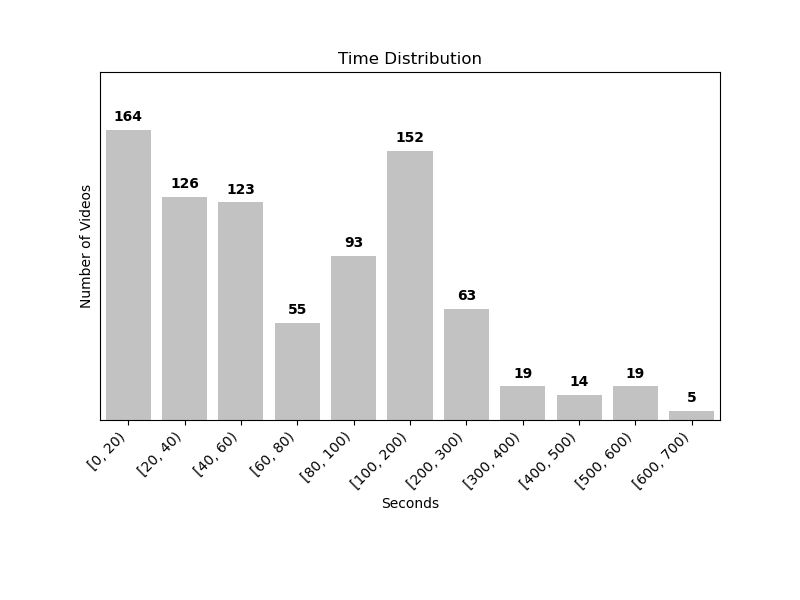
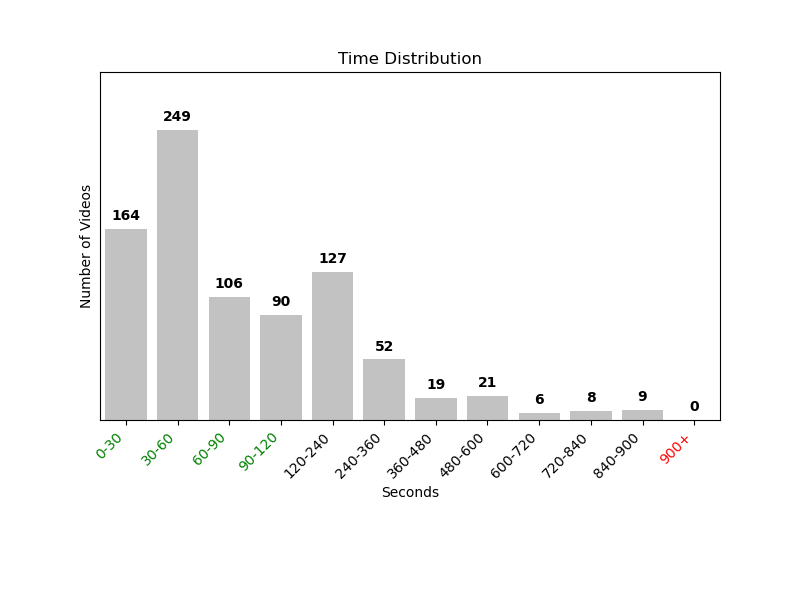
refine data with add tool and crawl normal data

diff --git a/AI/src/utils/preprocessing_ops.py b/AI/src/utils/preprocessing_ops.py
@@ -1,0 +1,95 @@
+import os
+import re
+import cv2
+import shutil
+import pandas as pd
+import ffmpeg
+from docx import Document
+
+__all__ = [ "remove_videos_from_csv", "find_long_videos", "delete_long_videos", "delete_videos_from_folders"]
+
+def remove_videos_from_csv(txt_file, csv_file):
+    video_names = set()
+    with open(txt_file, "r", encoding="utf-8") as f:
+        for line in f:
+            parts = line.strip().split(" - ")
+            if parts:
+                video_name = parts[0].replace(".mp4", "").strip()
+                video_names.add(video_name)
+
+    df = pd.read_csv(csv_file, header=None, dtype=str).astype(str)
+    df_filenames = df.iloc[:, 0].apply(lambda x: x.split("/")[-1].replace(".mp4", "").strip())
+    mask = df_filenames.isin(video_names)
+    removed_rows = df[mask]
+
+    if not removed_rows.empty:
+        backup_csv = csv_file + ".bak"
+        if not os.path.exists(backup_csv):
+            df.to_csv(backup_csv, index=False, header=False)
+        df_filtered = df[~mask]
+        df_filtered.to_csv(csv_file, index=False, header=False)
+        print(f"\n Hoàn thành! File {csv_file} sau khi xóa có {len(df_filtered)} dòng.")
+    else:
+        print("\n Không có dòng nào bị xóa.")
+
+def find_long_videos(folder_path, min_duration=15):
+    def get_video_duration(video_path):
+        try:
+            probe = ffmpeg.probe(video_path)
+            return float(probe['format']['duration']) / 60
+        except Exception as e:
+            print(f"Lỗi khi lấy thời lượng video {video_path}: {e}")
+            return None
+
+    long_videos = []
+    for root, _, files in os.walk(folder_path):
+        for file in files:
+            if file.lower().endswith(('.mp4', '.mkv', '.avi', '.mov', '.wmv')):
+                video_path = os.path.join(root, file)
+                duration = get_video_duration(video_path)
+                if duration and duration > min_duration:
+                    long_videos.append((file, duration))
+    return long_videos
+
+def delete_long_videos(folder_path, max_duration=15):
+    if not os.path.exists(folder_path):
+        print("Thư mục không tồn tại!")
+        return
+    
+    for root, _, files in os.walk(folder_path):
+        for file_name in files:
+            file_path = os.path.join(root, file_name)
+            if file_name.lower().endswith((".mp4", ".avi", ".mkv", ".mov")):
+                cap = cv2.VideoCapture(file_path)
+                if not cap.isOpened():
+                    print(f"Không thể mở video: {file_path}")
+                    continue
+                
+                fps = cap.get(cv2.CAP_PROP_FPS)
+                frame_count = cap.get(cv2.CAP_PROP_FRAME_COUNT)
+                duration = frame_count / fps
+                cap.release()
+                
+                if duration > max_duration * 60:
+                    os.remove(file_path)
+                    print(f"Đã xóa: {file_path} ({duration / 60:.2f} phút)")
+
+def delete_videos_from_folders(file_txt, root_folder):
+    video_names = set()
+    with open(file_txt, "r", encoding="utf-8") as f:
+        for line in f:
+            match = re.match(r"^(\S+\.mp4)", line.strip())
+            if match:
+                video_names.add(match.group(1))
+    
+    for subfolder in os.listdir(root_folder):
+        subfolder_path = os.path.join(root_folder, subfolder)
+        if os.path.isdir(subfolder_path):
+            for file in os.listdir(subfolder_path):
+                if file in video_names:
+                    file_path = os.path.join(subfolder_path, file)
+                    try:
+                        os.remove(file_path)
+                        print(f"Đã xóa: {file_path}")
+                    except Exception as e:
+                        print(f"Lỗi khi xóa {file_path}: {e}")

diff --git a/AI/src/utils/visualize_dataset.py b/AI/src/utils/visualize_dataset.py
@@ -107,16 +107,22 @@ def plot_dataset_statistics(dataset: VideoFolderDataset, **kwargs) -> None:
     draw_bar_chart(["Anomalies", "Normal"], [anomaly_count, normal_count],
                    "Anomaly vs Normal videos",
                    None, None,
-                   {"rotation": 45, "ha": "right"}, None,
+                   {"rotation": 0, "ha": "center"}, None,
                    None,  {"bottom": 0, "top": max([anomaly_count, normal_count]) * 1.2},
                    True,
+                   width=0.5,  # Chỉ áp dụng cho biểu đồ này
                    **kwargs
                    )
+    # quay anomaly với normal ngang lại , bóp cột 2/3 hay 1/2 nhỏ lại
 
     # 3. Plot video duration distribution
-    bins = np.concatenate([np.arange(0, 110, 20), np.arange(200, 800, 100)])
+    bins = np.concatenate([np.arange(0, 120, 30), np.arange(120, 900, 120),np.arange(900, 960, 60), [np.inf]])
+    # bins = np.concatenate([np.arange(0, 120, 30), np.arange(120, 600, 120),np.arange(600, 660, 60), [np.inf]])
+
     bin_counts, _ = np.histogram(durations, bins=bins)
-    bin_labels = [f"[{bins[i]}, {bins[i + 1]})" for i in range(len(bins) - 1)]
+    bin_labels = [f"{int(bins[i])}-{int(bins[i+1])}" for i in range(len(bins)-2)] + ["900+"]
+
+
 
     draw_bar_chart(bin_labels, bin_counts.tolist(),
                    "Time Distribution",
@@ -133,7 +139,8 @@ def draw_bar_chart(x: Any, y: Any, title: str,
                    xticks: dict = None, yticks: dict = None,
                    xlim: dict = None, ylim: dict = None,
                    force_y_int: bool = False,
-                   fpath: str = None
+                   fpath: str = None,
+                   width: float = 0.8  # Thêm tham số width với giá trị mặc định
                    ) -> None:
     """
     Draws a bar chart using Seaborn and Matplotlib.
@@ -172,7 +179,7 @@ def draw_bar_chart(x: Any, y: Any, title: str,
         colors = ["#c2c2c2"] * len(y)  # Xám thay vì đen (#808080 là màu xám trung bình)
 
 
-    ax = sns.barplot(x=x, y=y, palette=colors, legend=False)
+    ax = sns.barplot(x=x, y=y, palette=colors, legend=False, width=width)
 
     if force_y_int:
         ax.yaxis.set_major_locator(MaxNLocator(integer=True))
@@ -186,6 +193,16 @@ def draw_bar_chart(x: Any, y: Any, title: str,
     plt.ylabel(ylabel)
 
     plt.xticks(**xticks)
+
+    # Đặt màu đỏ cho nhãn "0-120" và "900+"
+    xticklabels = ax.get_xticklabels()
+    for label in xticklabels:
+        if label.get_text() in ["0-30", "30-60", "60-90", "90-120"]:
+            label.set_color("green")
+        elif label.get_text() == "900+":
+            label.set_color("red")
+
+
     plt.yticks([])  # Remove Y-axis labels as required
 
     plt.xlim(**xlim)

diff --git a/AI/src/tools/crawl data.py b/AI/src/tools/crawl data.py
@@ -22,6 +22,7 @@ videos = {
     "https://www.youtube.com/watch?v=GyAJvaEUUpM&list=PL3HxEb3s-wfYZ_kGn_xwvvDCsYX3HL97a&pp=gAQB":"shoplifting",
     "https://www.youtube.com/watch?v=AKOnSEDDzDM&list=PL3HxEb3s-wfYZRfCcZnzcpdN-5L77N_Mn&pp=gAQB":"suspicious",
     "https://www.youtube.com/watch?v=H9hq3onxf0o&list=PL3HxEb3s-wfbCqq76rFlriL45Og2Z8WDT&pp=gAQB":"vandalism",
+    "https://www.youtube.com/watch?v=84lYjtCfIvY&list=PL3HxEb3s-wfZGi6UK_FYPdlvMO7KYxeBl&pp=gAQB":"normal",
 
 }
 crawled = "crawled"
